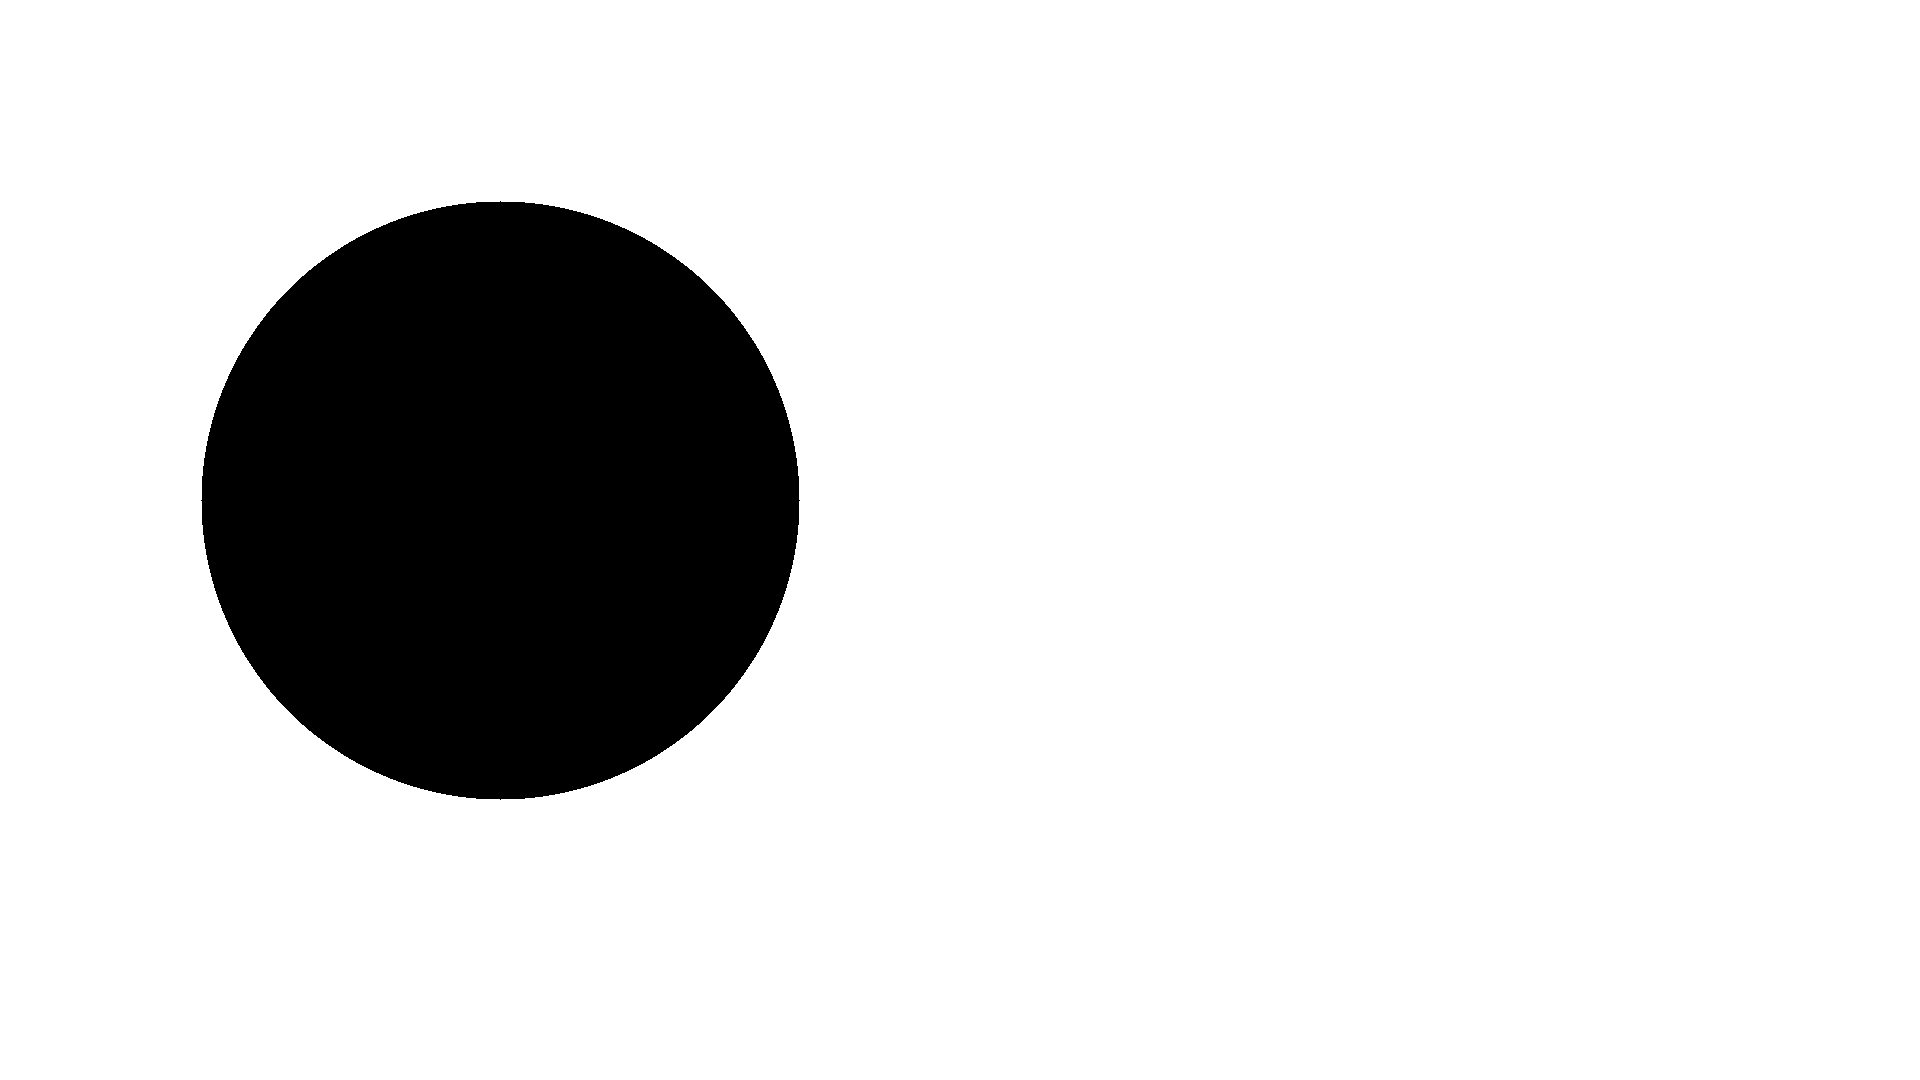
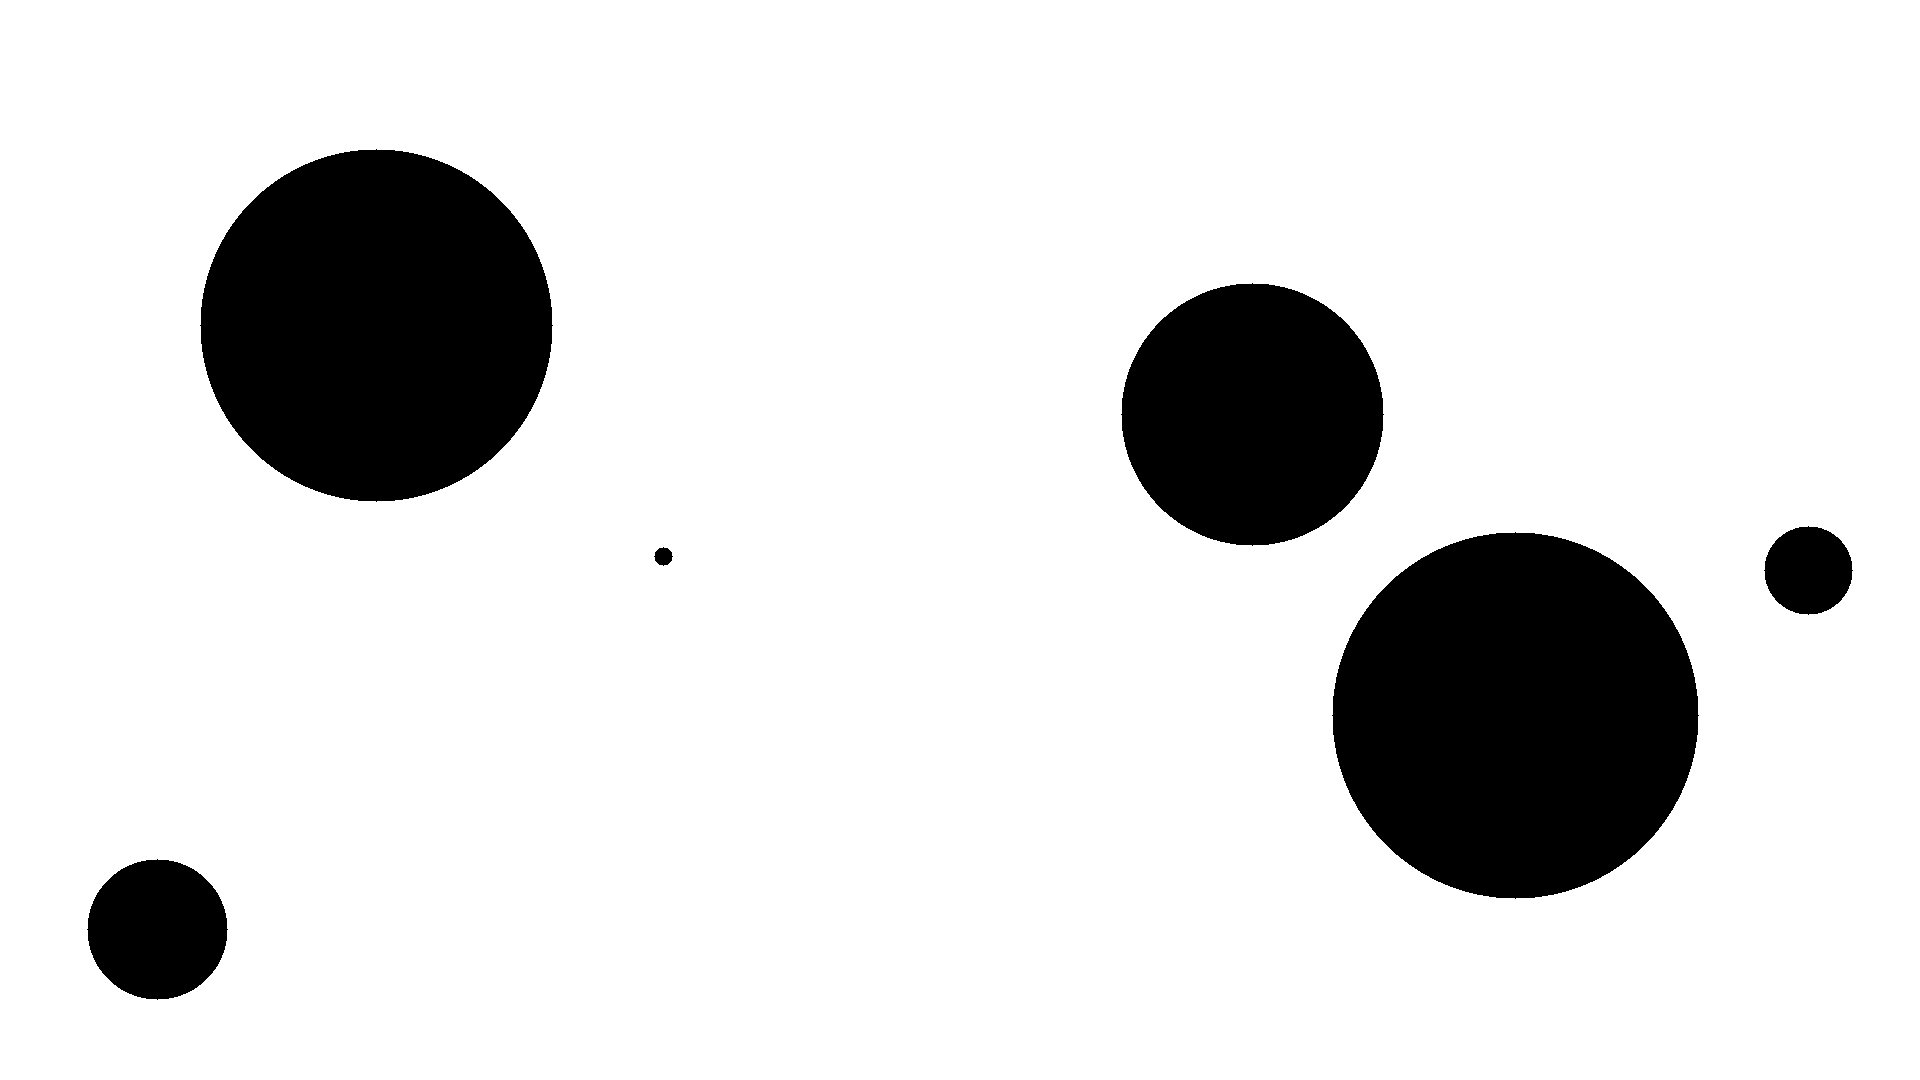
added multi-thread lock on pixels

diff --git a/src/q1/q1.java b/src/q1/q1.java
@@ -3,18 +3,27 @@ package q1;
 import java.awt.*;
 import java.awt.image.*;
 import java.io.*;
+import java.util.Random;
+import java.util.concurrent.atomic.AtomicInteger;
 import javax.imageio.*;
 
 public class q1 {
 
     private static BufferedImage img;
+    private static final double PI = 3.1415926535;
     private static int width = 1920;
     private static int height = 1080;
+    private static boolean pixelReserved[][] = new boolean[width][height];
+    private static AtomicInteger circlesDrawn = new AtomicInteger();
+    private static final Object pixelLock = new Object();
 
+    // draws a circle
+    // original C code from: http://www.softwareandfinance.com/Turbo_C/DrawCircle.html
+    // code was modified to draw full circles
     private static void drawCircle(int radius, int xPos, int yPos, Color color) {
         if (xPos >= width || yPos >= height)
             throw new IllegalArgumentException();
-        final double PI = 3.1415926535;
+
         double angle;
         int x, y;
 
@@ -27,7 +36,81 @@ public class q1 {
             }
         }
     }
+
+    // reserves the pixels needed to draw a circle
+//    private static void reservePixels(int radius, int xPos, int yPos) {
+//        if (xPos >= width || yPos >= height)
+//            throw new IllegalArgumentException();
+//
+//        double angle;
+//        int x, y;
+//
+//        for (int r = 0; r < radius; r++) {
+//            for (double i = 0; i < 360; i = i + 0.01) {
+//                angle = i;
+//                x = (int)(r * Math.cos(angle * PI / 180));
+//                y = (int)(r * Math.sin(angle * PI / 180));
+//                pixelReserved[xPos + x][yPos + y] = true;
+//            }
+//        }
+//    }
+
+    // reserves the pixels needed to draw a circle
+    private static boolean synchronizedReservePixels(int radius, int xPos, int yPos) {
+        synchronized (pixelLock) {
+            if (xPos >= width || yPos >= height)
+                throw new IllegalArgumentException();
+
+            double angle;
+            int x, y;
+
+            for (int r = 0; r < radius; r++) {
+                for (double i = 0; i < 360; i = i + 0.01) {
+                    angle = i;
+                    x = (int)(r * Math.cos(angle * PI / 180));
+                    y = (int)(r * Math.sin(angle * PI / 180));
+                    if (pixelReserved[xPos + x][yPos + y])
+                        return false;
+                }
+            }
+
+            for (int r = 0; r < radius; r++) {
+                for (double i = 0; i < 360; i = i + 0.01) {
+                    angle = i;
+                    x = (int)(r * Math.cos(angle * PI / 180));
+                    y = (int)(r * Math.sin(angle * PI / 180));
+                    pixelReserved[xPos + x][yPos + y] = true;
+                }
+            }
+            return true;
+        }
+    }
+
+    // checks if the pixels required are already reserved
+//    private static boolean canDraw(int radius, int xPos, int yPos) {
+//        if (xPos >= width || yPos >= height)
+//            throw new IllegalArgumentException();
+//
+//        double angle;
+//        int x, y;
+//
+//        for (int r = 0; r < radius; r++) {
+//            for (double i = 0; i < 360; i = i + 0.01) {
+//                angle = i;
+//                x = (int)(r * Math.cos(angle * PI / 180));
+//                y = (int)(r * Math.sin(angle * PI / 180));
+//                if (pixelReserved[xPos + x][yPos + y])
+//                    return false;
+//            }
+//        }
+//        return true;
+//    }
+
     public static void main(String[] args) {
+
+        circlesDrawn.set(0);
+
+
         try {
             if (args.length<3)
                 throw new Exception("Missing arguments, only "+args.length+" were specified!");
@@ -38,9 +121,7 @@ public class q1 {
             // arg 2 is a boolean
             boolean multithreaded = Boolean.parseBoolean(args[2]);
 
-            // create an image and initialize it to all 0's
-
-
+            // initialize img pixels to all 0's
             img = new BufferedImage(width, height, BufferedImage.TYPE_INT_ARGB);
             for (int i = 0; i< width; i++) {
                 for (int j = 0; j< height; j++) {
@@ -48,16 +129,41 @@ public class q1 {
                 }
             }
 
-            // YOU NEED TO ADD CODE HERE AT LEAST!
-            drawCircle(300, 500, 500, Color.black);
+            long startTime = System.currentTimeMillis();
+            if (multithreaded) {
+                Random rng = new Random();
 
+                while(circlesDrawn.get() < c) {
+                    int radius = Math.max(10, rng.nextInt(r));
+                    int x = Math.max(radius, rng.nextInt(width - radius));
+                    int y = Math.max(radius, rng.nextInt(height - radius));
+                    if (synchronizedReservePixels(radius, x, y)) {
+                        drawCircle(radius, x, y, Color.black);
+                        circlesDrawn.incrementAndGet();
+                    }
+                }
+            }
+            else {
+                Random rng = new Random();
 
+                while(circlesDrawn.get() < c) {
+                    int radius = Math.max(10, rng.nextInt(r));
+                    int x = Math.max(radius, rng.nextInt(width - radius));
+                    int y = Math.max(radius, rng.nextInt(height - radius));
+                    if (synchronizedReservePixels(radius, x, y)) {
+                        drawCircle(radius, x, y, Color.black);
+                        circlesDrawn.incrementAndGet();
+                    }
+                }
 
+            }
+
+            long elapsedTime = System.currentTimeMillis() - startTime;
+            System.out.println("time: " + elapsedTime + " ms");
 
             // Write out the image
             File outputfile = new File("outputimage.png");
             ImageIO.write(img, "png", outputfile);
-
         } catch (Exception e) {
             System.out.println("ERROR " +e);
             e.printStackTrace();
